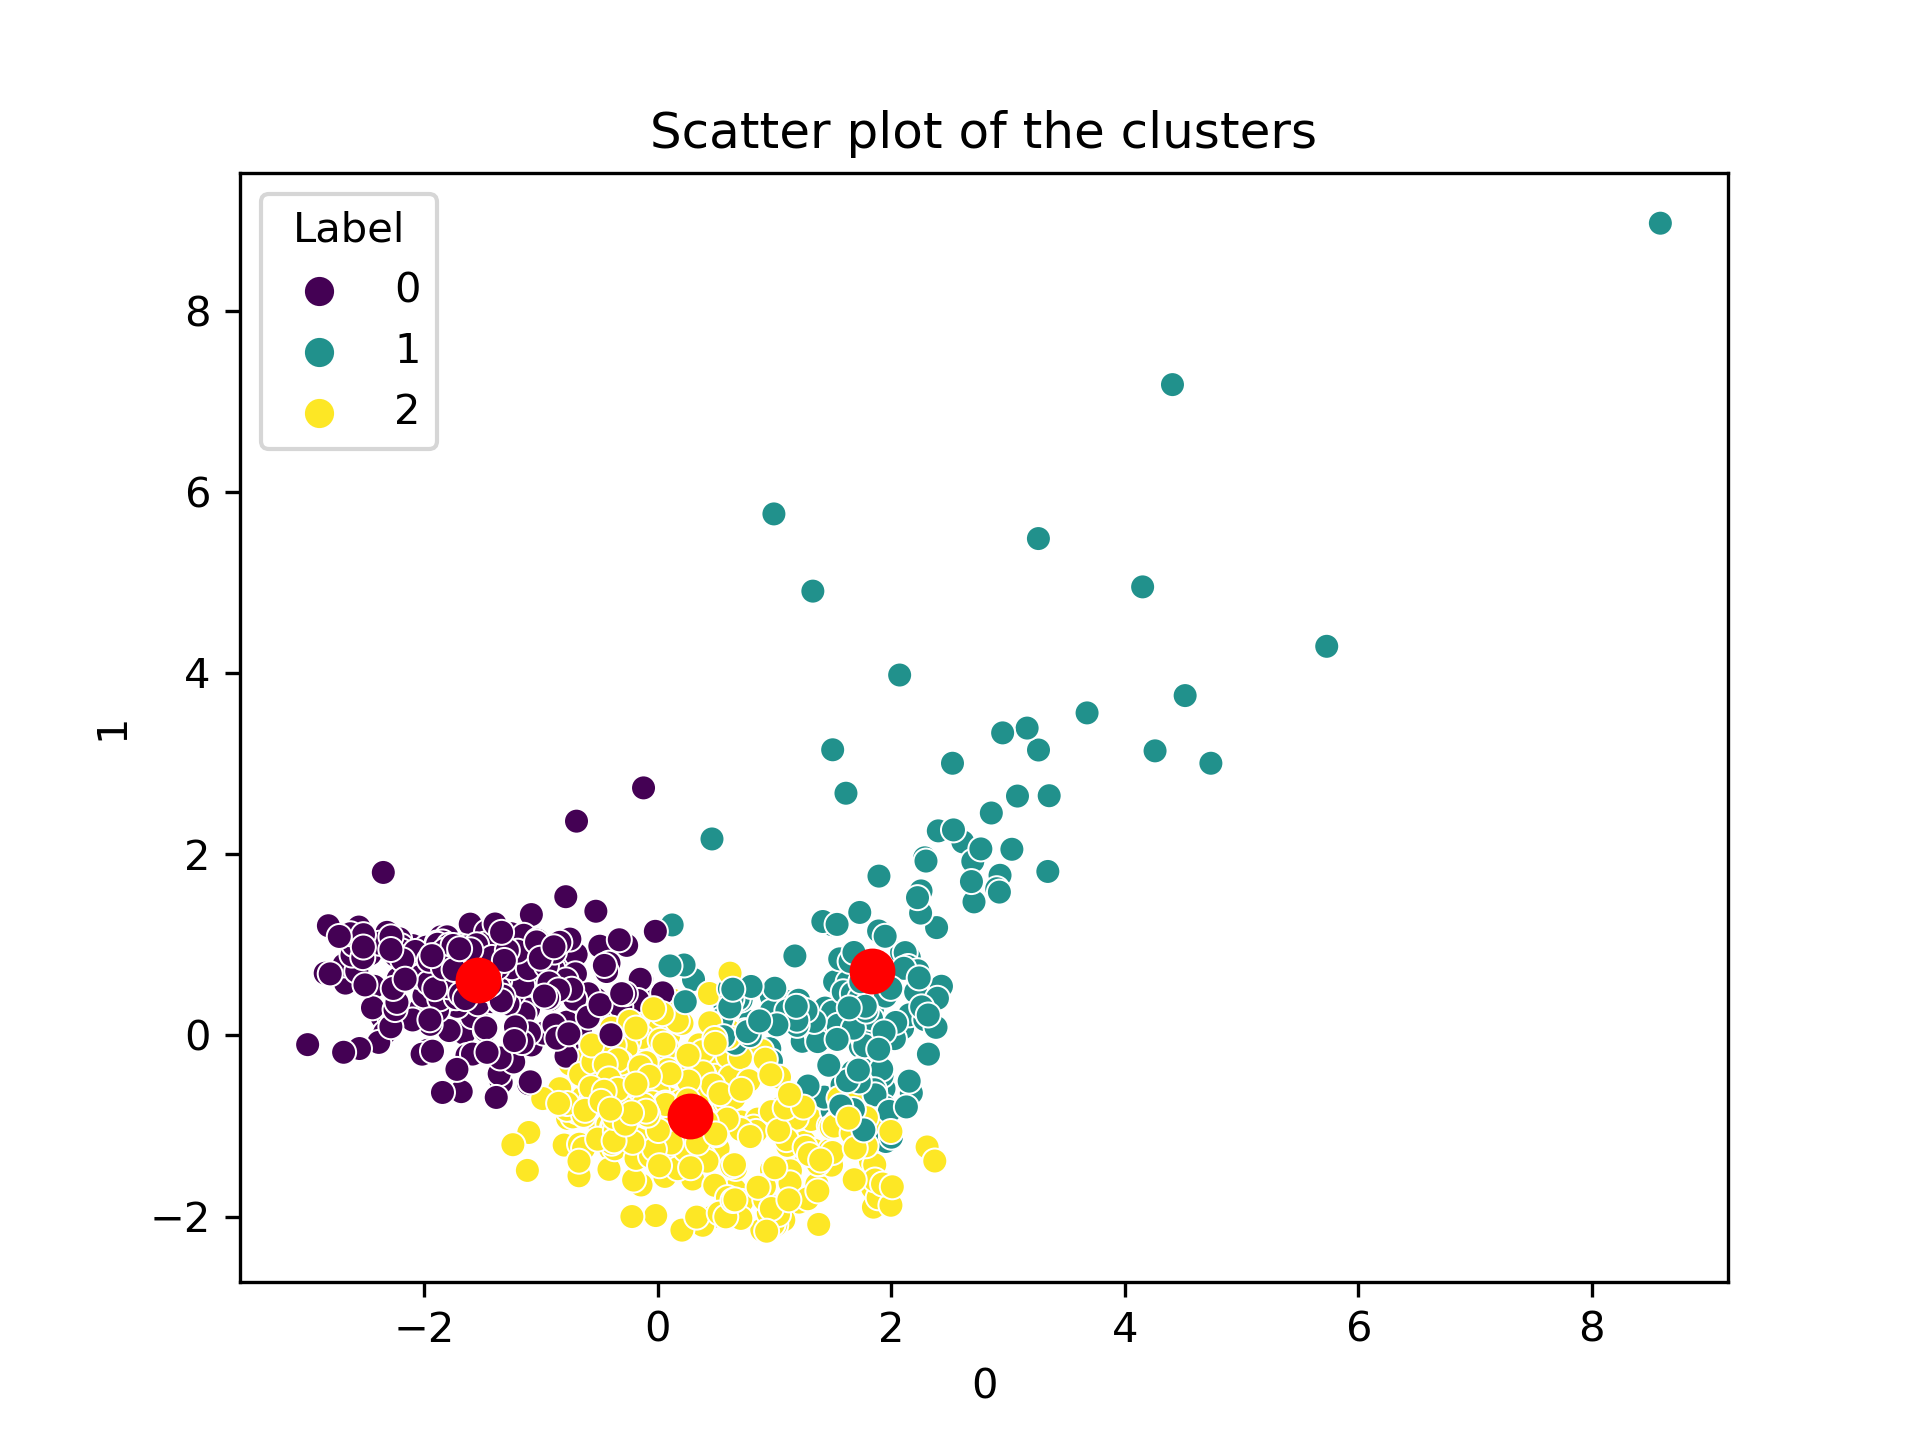
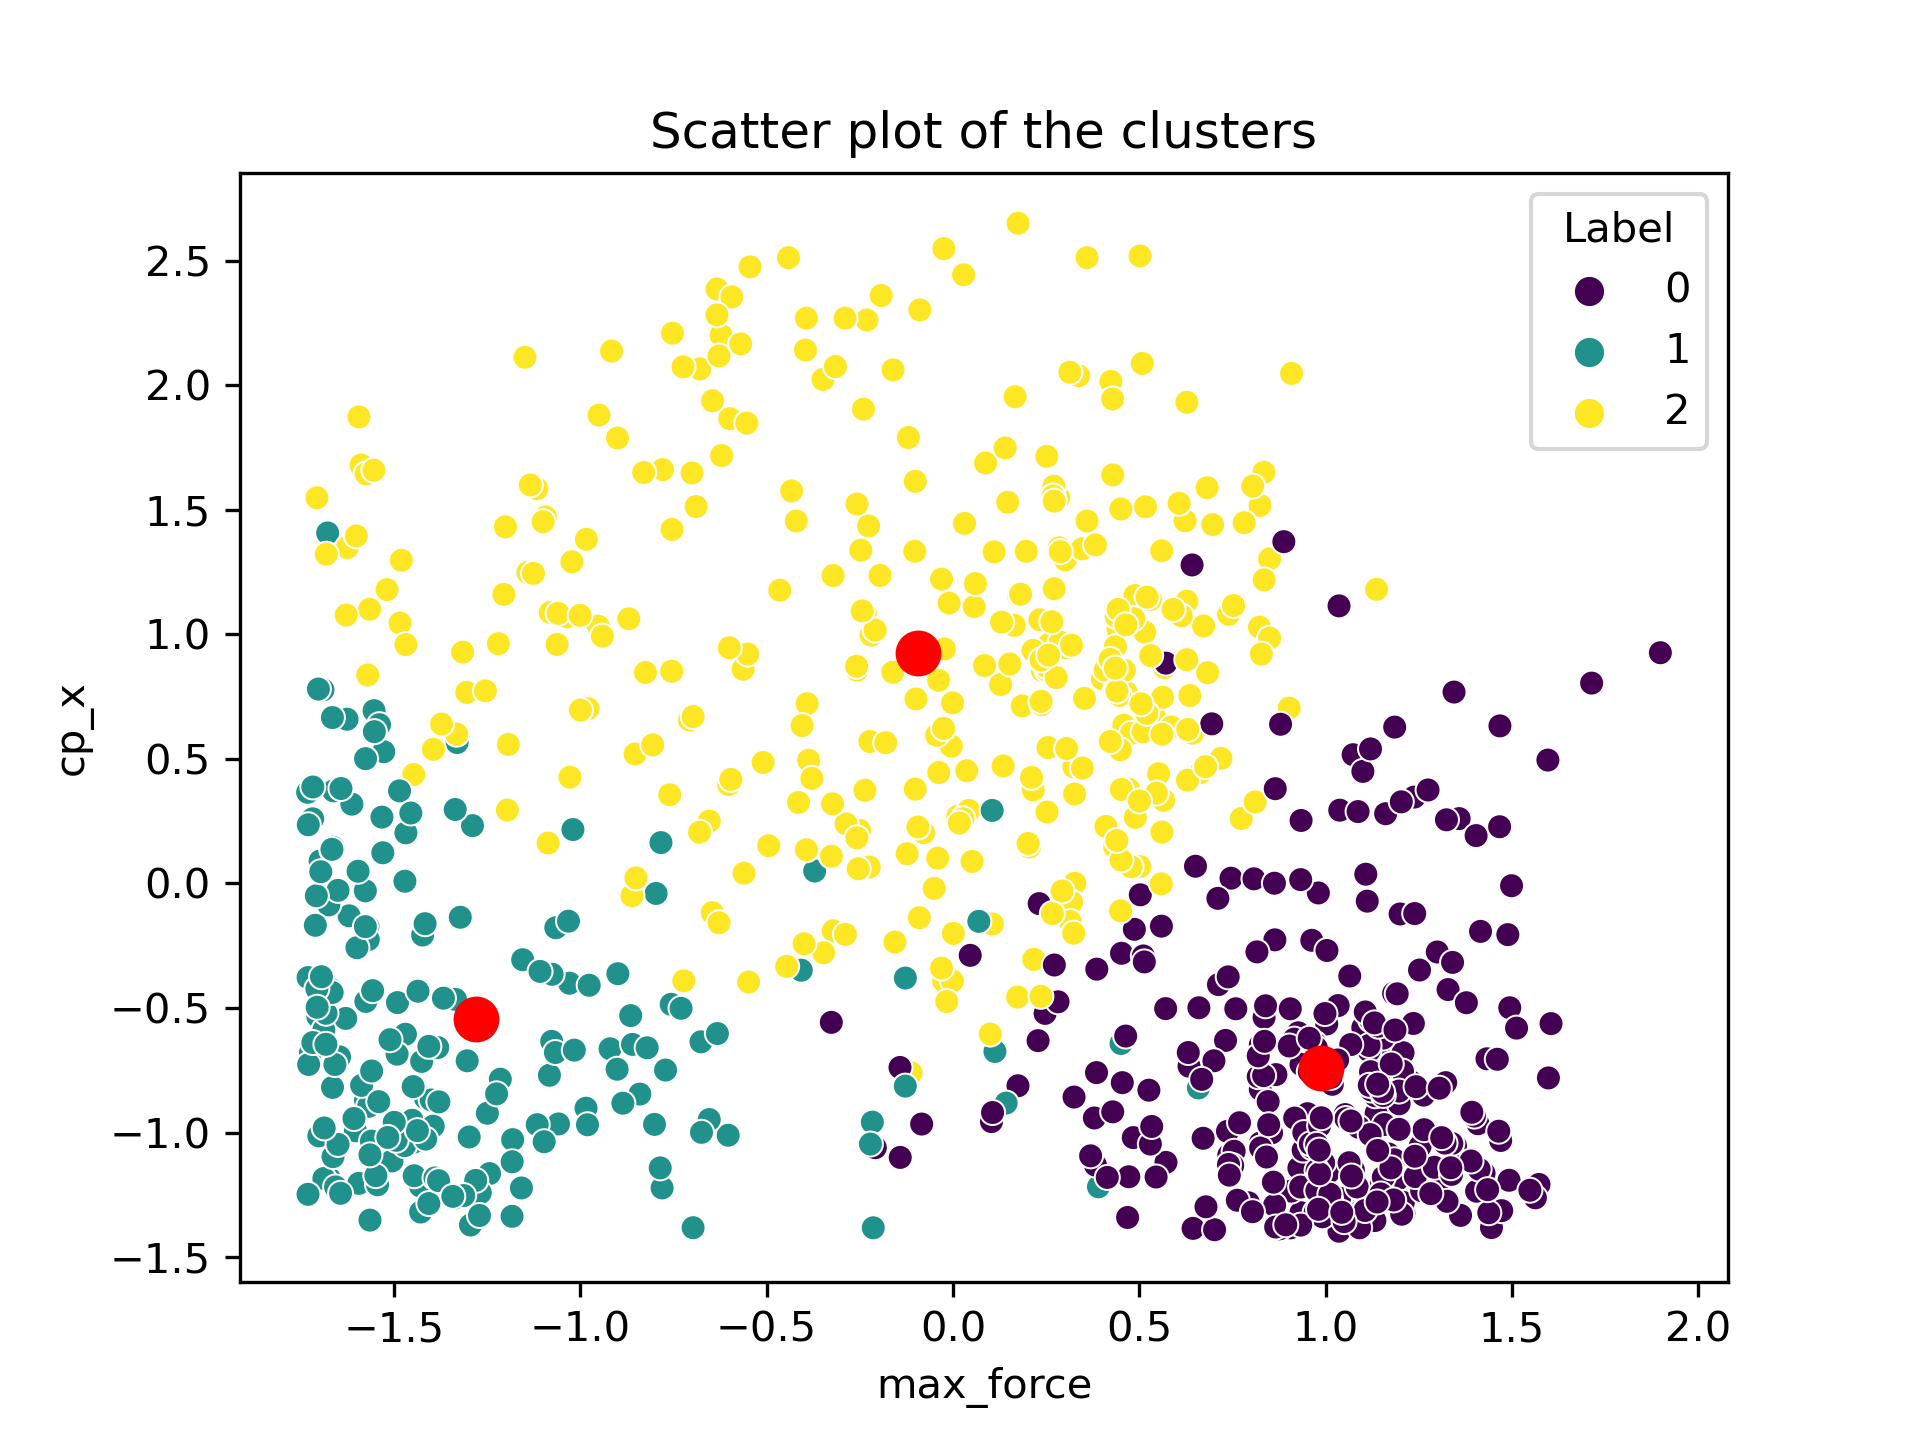
repeating figure generation for PCA

diff --git a/PCA_KMeans_Clustering/KMeans_after_PCA.py b/PCA_KMeans_Clustering/KMeans_after_PCA.py
@@ -91,6 +91,7 @@ print(major_components.sort_values(by='Value', ascending=False))
 # Elbow method for deciding the optimal number of clusters in KMeans
 inertia = []
 
+pca_df = scaled_df
 for i in range(1, pca_df.shape[1]+1):
     # performing KMeans for different cluster numbers and calculating the inertia
     KM = KMeans(n_clusters=i, init='k-means++', n_init='auto', random_state=21)
@@ -113,9 +114,9 @@ df_pc = pd.DataFrame(pca_df)
 df_pc['Label'] = cluster_labels
 print(df_pc)
 # plotting the clusters
-sns.scatterplot(data=df_pc, x=df_pc.iloc[:,0], y=df_pc.iloc[:,1], hue='Label', palette="viridis")
+sns.scatterplot(data=df_pc, x=df_pc.iloc[:,2], y=df_pc.iloc[:,3], hue='Label', palette="viridis")
 plt.title('Scatter plot of the clusters')
-plt.scatter(Kmeans_pca.cluster_centers_[:, 0], Kmeans_pca.cluster_centers_[:, 1], s=100, c='red', label='Centroids')
+plt.scatter(Kmeans_pca.cluster_centers_[:, 2], Kmeans_pca.cluster_centers_[:, 3], s=100, c='red', label='Centroids')
 plt.savefig("KMean_after_PCA_Clusters&Centroids.png", dpi=300)
 plt.show()
 
@@ -156,7 +157,7 @@ for i, curve in enumerate(df["curve_id"].values):
     ax[0].plot(fit_separation, fit_force, alpha=0.3, c=c[cluster_n])
     ax[0].set_xlabel("Indentation (nm)")
     ax[0].set_ylabel("Force (pN)")
-    ax[1].scatter(df_pc.iloc[i, 0], df_pc.iloc[i, 1], c=c[cluster_n])
+    ax[1].scatter(df_pc.iloc[i, 2], df_pc.iloc[i, 3], c=c[cluster_n])
     ax[1].set_xlabel(df_pc.columns[0])
     ax[1].set_ylabel(df_pc.columns[1])
 plt.tight_layout()
